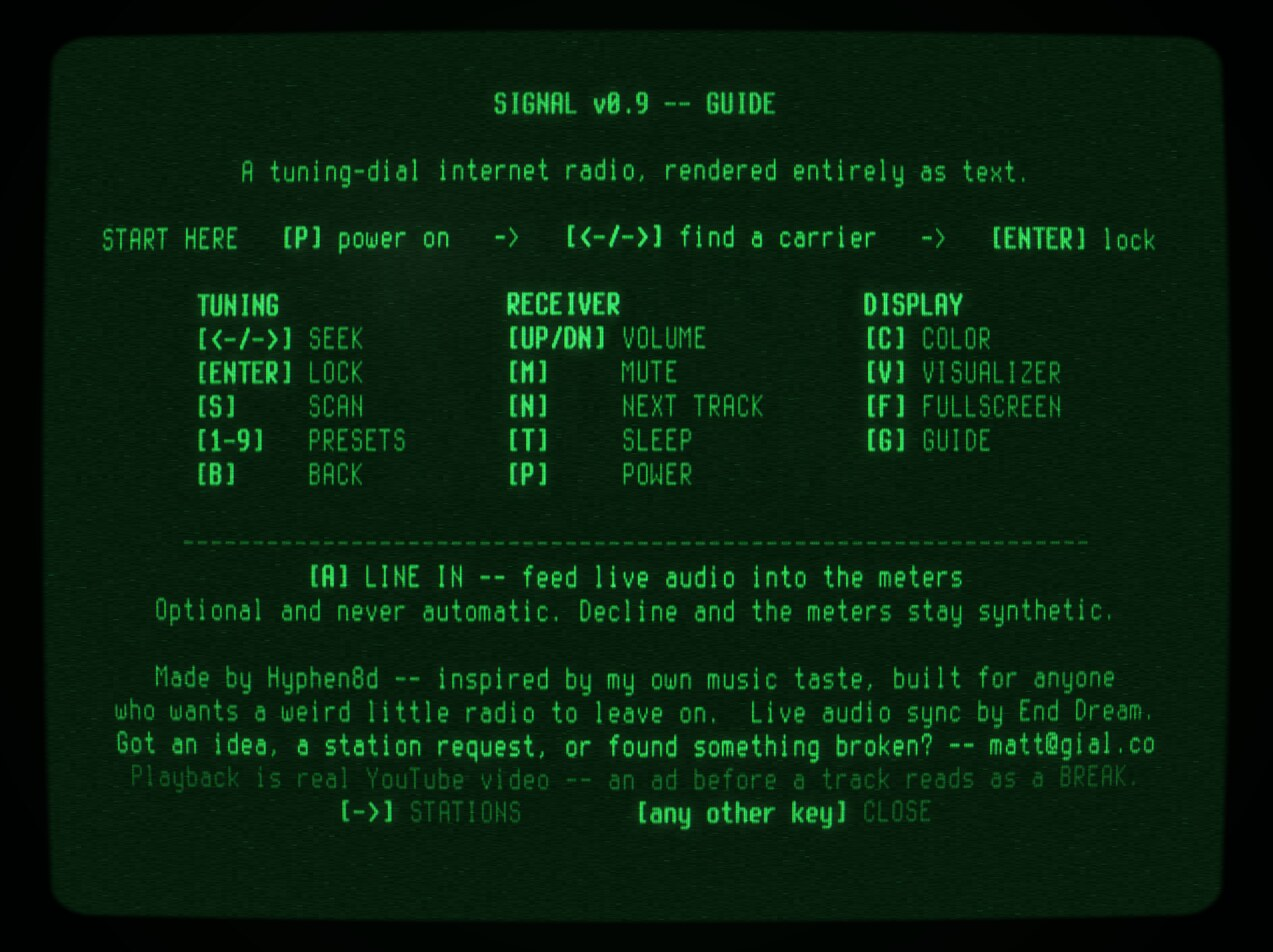
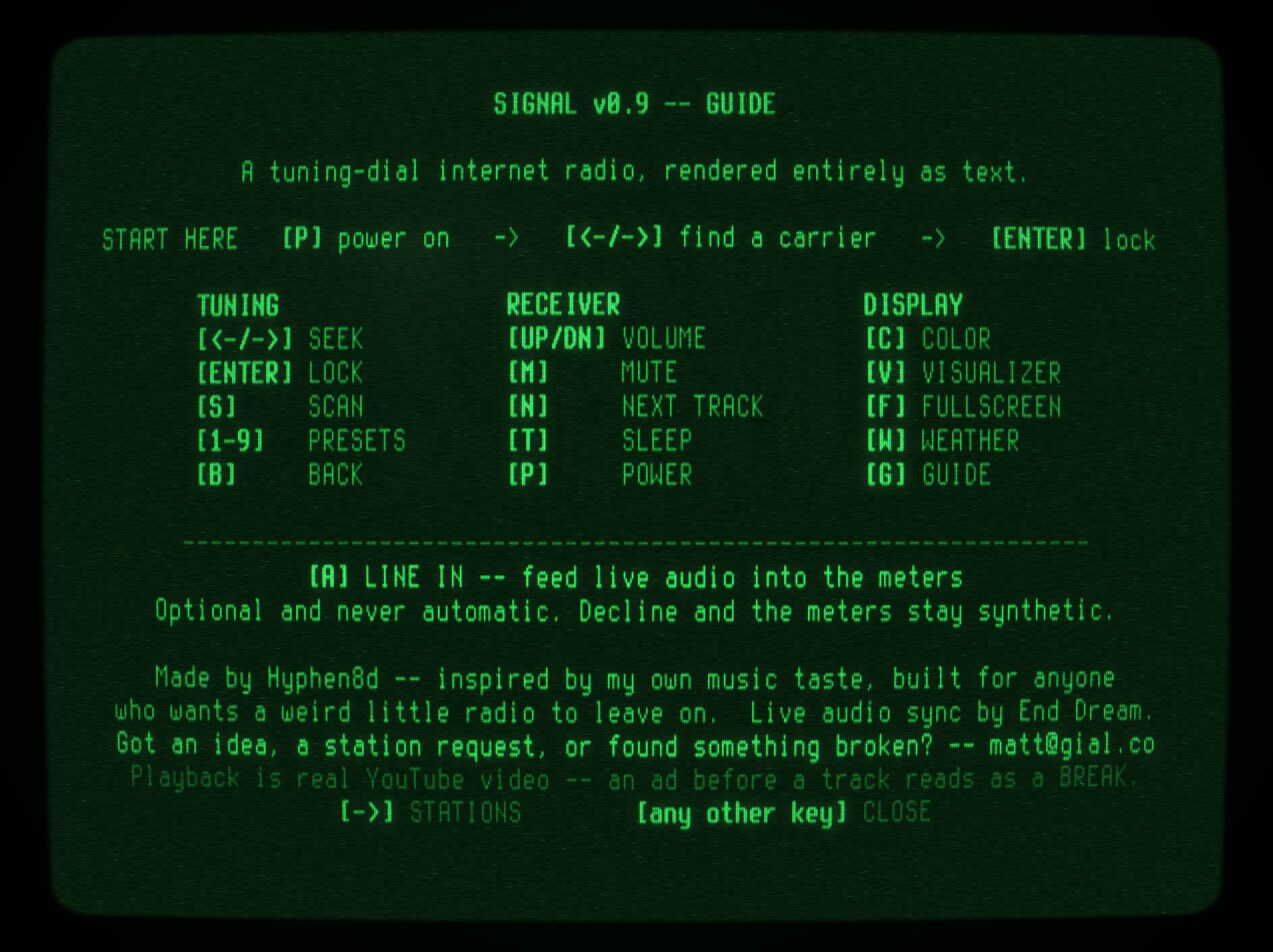
Documentation catches up with the day
CHANGELOG had nothing after 2026-08-28 and the day added a feature, removed
one, took seven stations to fifty and built a tool. Six sections written for
it: weather, audio levels, stations, roster health, the admin dashboard, and
the systemd unit.

README:

- The intro named the set's features and did not name the weather readout,
  which is now one of them.
- Content ops listed verify-roster and lint-roster and not check-roster, so
  the deeper probe existed and the document that tells you how to look after
  the roster did not mention it. Added, with the reason it exists rather
  than just the command: oEmbed answers whether a video exists, and cannot
  see an upload that has since been age-gated, had embedding revoked, or
  been re-uploaded under a narrower licence -- the last of which is
  invisible from the curator's chair.

Screenshots regenerated, and one of them was genuinely wrong rather than
merely old. `[W] WEATHER` went into the Guide's DISPLAY column this morning
and the committed guide.jpg still showed a four-row column without it -- a
picture of the controls list, missing a control. The hero and visualizer
shots moved too; display-modes did not, since the colour cycle is untouched.
og.jpg follows the hero automatically now, which is the arrangement that
exists because it went stale exactly this way once before.

Worth stating for the next pass, since it is the one surface a commit
cannot reach: the GitHub wiki carries its own copy of the controls
[…]

Changed region(s): [[0.674, 0.4265, 0.7965, 0.5179]]

diff --git a/CHANGELOG.md b/CHANGELOG.md
@@ -652,6 +652,151 @@ editable anywhere at all.
   else could have.
 
 
+### Weather (2026-08-29)
+
+`[W]` opens a weather card: today in three parts — morning, afternoon,
+evening — each with a high, a condition and a chance of rain, plus sunrise
+and sunset, with the part you are currently in picked out. A live reading
+also sits in the title bar opposite the sleep timer, refreshed every fifteen
+minutes while the set is on. "Would a real radio have this?" answers this
+one without argument: a station reading out the local forecast is not a
+feature bolted on, it is most of what daytime radio is.
+
+- **It draws over the set rather than replacing it**, unlike the guide and
+  the LINE INPUT card. Weather is an aside, not a destination — the dial
+  above and the meters below stay lit and moving underneath. The cost is
+  that it cannot use the "nothing else may paint" contract the full-screen
+  overlays get, so `weatherOpen` joins them in every paint guard.
+- **Location is asked for through a consent card**, the same shape as `[A]`,
+  and only ever from the keypress. Saying no costs nothing and `[W]`
+  re-opens it. Coordinates and readings are held in memory for the session
+  and written nowhere; only the answer to the question is persisted.
+- **Geolocation needs a secure context.** On plain `http` the API exists,
+  the call runs, and the error callback fires with code 1 —
+  `PERMISSION_DENIED`, the same code a genuine refusal gives — saying "Only
+  secure origins are allowed". Conflating those would have remembered a
+  visitor as having declined forever, on every origin, because they once
+  pressed `[W]` on an http URL. They are separated. The practical
+  consequence: this cannot be exercised over a bare IP, only `localhost` or
+  the deployed site.
+- Three bugs that 161 passing tests could not see, all found by rendering:
+  card copy at 52 characters wrote through a 50-column box border; the
+  title-bar readout started where the brand plate ends and rendered as
+  `SIGNAL RECEIVER69F CLEAR`; and pressing `[W]` said `NO READING` for the
+  whole time it was loading, because `!this._wx` was being read as "we
+  looked and found nothing" when it is equally true before anyone has
+  looked. Widths are asserted as data now, and the loading state is a real
+  state.
+
+### Audio levels (2026-08-29)
+
+- **The music ducks 50% under station IDs and liner drops**, fast down
+  (160ms) and slow back up (520ms) — the asymmetry is what makes a duck
+  sound like a desk rather than a volume control being yanked. It cannot be
+  a gain node: the music is YouTube's iframe and is not in the WebAudio
+  graph, so it is `player.setVolume()` stepped on a real timer to make a
+  ramp the API does not provide. Not the effects queue — that stops ticking
+  under an overlay, and a duck stopped halfway would leave the music at half
+  volume until the guide was closed. The network sign-on line deliberately
+  does not duck; it plays over a boot with no track under it.
+- **Per-station playback `gain` is gone.** From the 25th pass every station
+  carried a multiplier (1.0–1.5) meant to even out loudness between a 1950s
+  master and a modern compressed one. It never worked at the volumes people
+  use: applied as `min(100, volume * gain)`, the ceiling ate the boost from
+  about volume 67 up, so at the default of 70 DRIFT MODE's 1.5× was already
+  clipping and at 100 every station came out at exactly 100 with no
+  compensation at all — the stations meant to be lifted were the ones that
+  lost the lift as the knob went up. It was also never measured (its own
+  comment said so) and its per-track escape hatch was used by 0 of 477
+  tracks. Every station now plays at the level the listener set.
+
+### Stations (2026-08-29)
+
+Seven of the nine public stations are at 50 tracks; SYNAPSE and ATOMIC are
+at 35. 420 public tracks, up from 329.
+
+- **DISTORTION FIELD, CIPHER, COLD WAVE, DRIFT MODE, CITY LIGHTS, HACKBACK
+  and CIRCUIT CRUSH** all reached 50. The lanes turned out to differ wildly
+  in how hard they are to fill: synthwave is internet-native and every
+  candidate auditioned clean, while city pop was never officially uploaded
+  and leans on archive channels by necessity.
+- **HACKBACK was filled against its own profile's instructions** rather
+  than taste — coast balance re-measured (New York was 56%) and the note
+  that the station had one woman across 43 tracks. Salt-N-Pepa, MC Lyte and
+  Fugees take that to four.
+- **Six wrong-artist near misses caught across two stations**, every one on
+  a `- Topic` channel where the title matched exactly: Ai Furihata covering
+  Kadomatsu, Hirotaka Mori's "Bomber" standing in for Yamashita, "Nanaco"
+  for Nanako Sato, Powerwolf for Dance With The Dead, Robert Knight for
+  Robert Parker. Only the channel name distinguishes them. Not a city-pop
+  quirk, as that profile framed it — a property of searching YouTube.
+- **Four track titles were carrying their YouTube upload names** —
+  "Sabotage (Official Music Video)", "Le Perv (official video)" and two
+  more. `layout.js` draws that field on the dial, so listeners were being
+  shown "(Official Music Video)" as though it were part of the song's name.
+- **SYNAPSE's spoken station ID was being cut off.** Its clip had 0.23s of
+  trailing silence against the 0.4s the playback fade needs, so its last
+  word was faded out under listeners. Second time that rule has been broken
+  and both times by the newest clip on the disk.
+
+### Roster health (2026-08-29)
+
+`tools/check-roster.mjs` (`npm run health`) — the strict checks used to run
+once, on the day a track was added, and never again. `audition.js` asks
+`playabilityStatus`, `playableInEmbed` and `availableCountries` of a
+candidate; `verify-roster.js` asked oEmbed, and only oEmbed, of the roster.
+All three things they catch are things that happen *after*: an upload gets
+age-gated, embedding is revoked, or a re-upload narrows the licence.
+
+- The narrow-licence case is why this exists rather than being a
+  nice-to-have: **it is invisible from the curator's chair.** A track
+  licensed in nine countries including the US plays perfectly here and is
+  dead air for nearly everyone else. The first real run found exactly that
+  on DISTORTION FIELD — Veruca Salt's "Seether" at nine countries —
+  alongside Pearl Jam's "Jeremy" gone `LOGIN_REQUIRED`, which the IFrame
+  player cannot satisfy and which had been playing as silence.
+- **Incremental because it has to be**: a full pass is one watch-page fetch
+  per track against an endpoint that throttles after a few hundred, so a
+  one-shot sweep would fail partway every time and return a wall of
+  `UNVERIFIED` that reads like findings. It works in batches, keeps its
+  record in `tools/roster-health.json`, and stops early when throttled
+  rather than recording rows that say nothing.
+- Both tools now share `tools/lib/probe.mjs`, lifted out of `audition.js`
+  byte-for-byte, so "playable" has one definition and the two cannot
+  disagree. `tests/probe.test.mjs` pins the thresholds — 20 countries above
+  all.
+- **All 477 tracks are now deep-probed**, secret stations included, where
+  none had been that morning.
+
+### Network admin dashboard (2026-08-29)
+
+- **Cyber Blue throughout**, derived rather than eyeballed: every neutral in
+  the old green set sat in a tight 90–100° band, so each was re-pinned to
+  the brutalist phosphor's 202.8°. Blue carries far less luminance than
+  green at the same HSL lightness, so the text levels were re-solved to hold
+  their original contrast ratios rather than quietly dimming every label.
+  Status colours stay warm — pass/fail has to stay green/red.
+- **The STANDBY wordmark is the header**, drawn from `layout.js`'s own font
+  table rather than a copy, and the favicon is the app's icon retinted to
+  the same blue. The app is green, the ops backend is blue.
+- **VOICE & DROPS** plays the spoken assets through `voice.js`'s own
+  processing chain rather than a mirror of it, and measures each clip's
+  trailing silence against the 0.4s the fade needs — which is how SYNAPSE's
+  clipped station ID was found.
+- **ROSTER HEALTH** renders the record above, findings first.
+- **The bind address is no longer printed in the header.** It restated the
+  browser's own address bar, and this page gets screen-shared.
+
+### Documentation (2026-08-29)
+
+- `tools/signal-admin.service` is committed. The admin backend runs as a
+  systemd user unit on the development box, and CLAUDE.md nowhere said so —
+  the unit named CLAUDE.md in its own header while CLAUDE.md had never heard
+  of the unit. Anyone reading the docs would reach for `npm run admin` and
+  get `EADDRINUSE`, and would not know that editing `admin-server.mjs` does
+  nothing until the service restarts while editing `network.html` needs no
+  restart at all.
+
 ## [0.9] — 2026-08-23
 
 ### Visualizer

diff --git a/README.md b/README.md
@@ -2,7 +2,8 @@
 
 A community-facing, unofficial internet-radio-style web toy: a terminal/CRT
 tuning-dial receiver with 9 curated stations, real songs, station idents,
-scanning, presets, an ambient tube hum, and a power switch.
+scanning, presets, a local weather readout, an ambient tube hum, and a power
+switch.
 
 Built on top of [`cyberspace-crt`](https://github.com/unremarkablegarden/cyberspace-crt),
 the WebGL2 CRT text-grid engine open-sourced from [cyberspace.online](https://cyberspace.online).
@@ -247,6 +248,8 @@ isn't just an internal annoyance anymore.
   node tools/verify-roster.js               # whole roster, secret stations included
   node tools/verify-roster.js --station=atomic   # one station only
   node tools/lint-roster.js                 # offline: the rules below, no network
+  node tools/check-roster.mjs               # the deeper probe, in batches
+  node tools/check-roster.mjs --report      # read the record, no network
   ```
 
   Checks every track ID against oEmbed and prints any that are now dead,
@@ -256,6 +259,18 @@ isn't just an internal annoyance anymore.
   glyphs present in the font, `visual` keys that exist, unique IDs and
   frequency spacing — and `tests/roster.test.mjs` asserts the same rules,
   so `npm test` catches a malformed roster before it ships.
+- **oEmbed is not the whole check, and it does not stay true.** `verify-roster.js`
+  asks whether a video exists; it cannot see whether the upload has been
+  age-gated, has had embedding revoked, or has been re-uploaded under a
+  narrower licence. Those all happen *after* a track is added, and the last
+  one is invisible from here — a track licensed in nine countries including
+  the US plays perfectly for whoever is checking and is dead air for nearly
+  everyone else. `tools/check-roster.mjs` (`npm run health`) asks the full
+  set of questions of tracks already on the roster and keeps its answers in
+  `tools/roster-health.json`. It works in batches on purpose: a full pass is
+  one page fetch per track against an endpoint that throttles after a few
+  hundred, and it stops early when throttled rather than recording results
+  that say nothing.
 - **Concept-tied stations:** if a station's premise points at a real source
   (e.g. ATOMIC being an in-universe Fallout radio station), verify tracks
   against *that* source's actual tracklist, not just oEmbed -- oEmbed only
